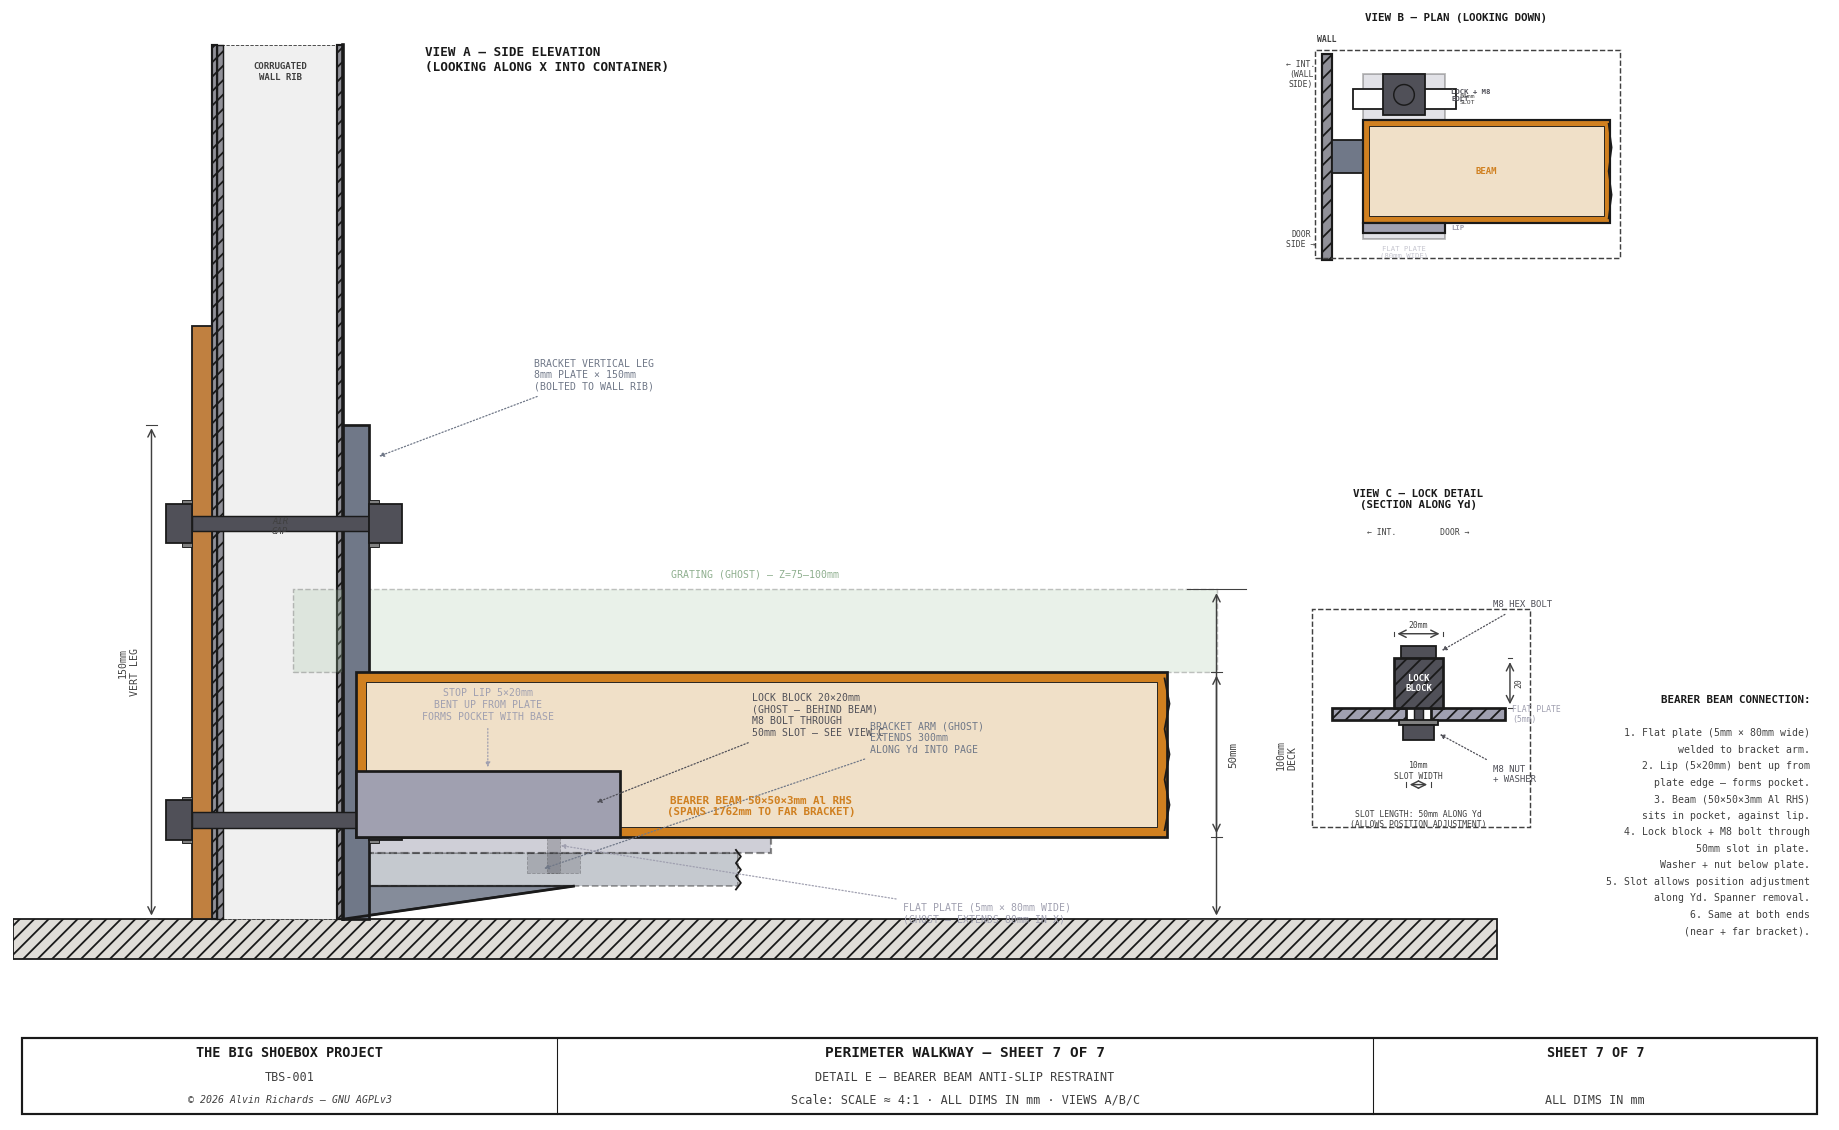
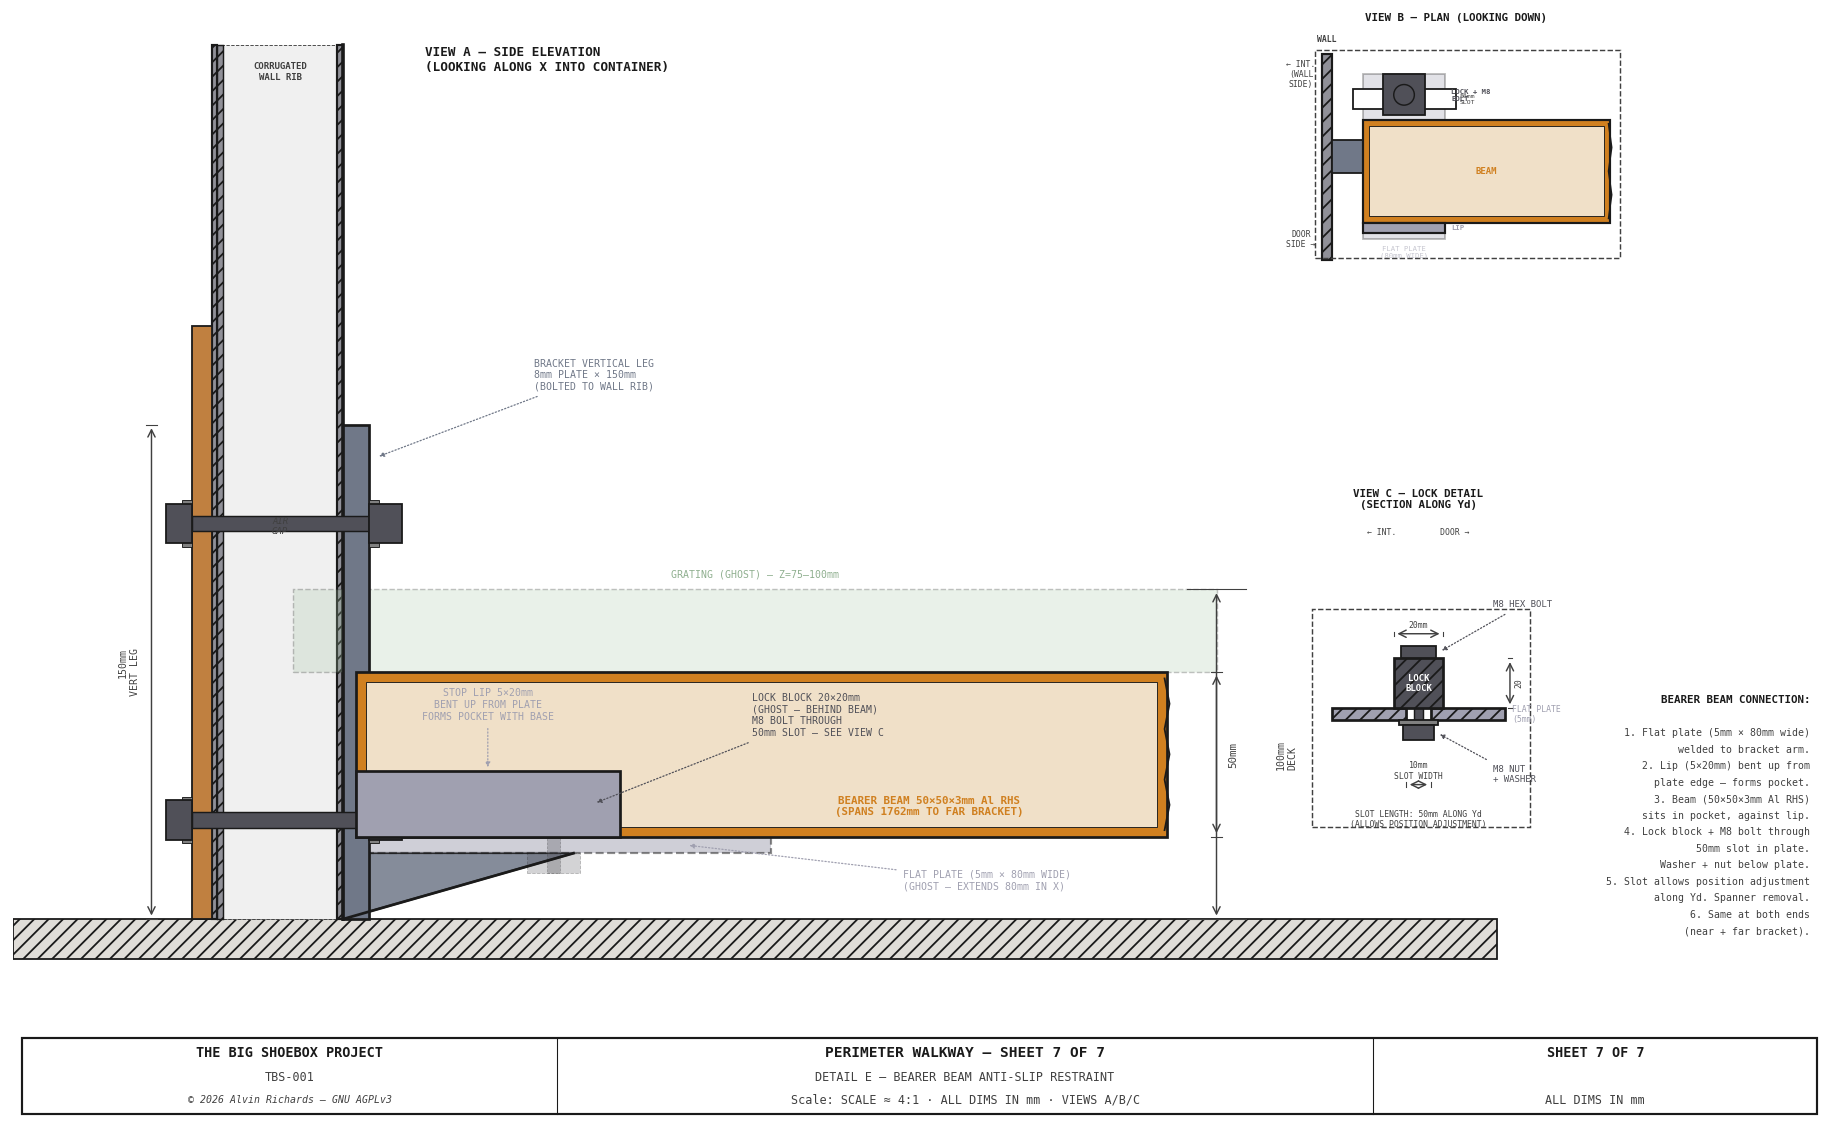
Sheet 7: remove redundant bracket arm rectangle, gusset connects to plate

Changed region(s): [[0.186, 0.6195, 0.5579, 0.8363], [0.4959, 0.7743, 0.5889, 0.8363]]

diff --git a/generate_walkway_diagram.py b/generate_walkway_diagram.py
@@ -2261,33 +2261,16 @@ def sheet7():
                                 sx(WASHER_T), sy(BOLT_D + 2),
                                 fc="#808080", ec=C_OUT, lw=0.5, zorder=9))
 
-    # ── Bracket arm (ghost — extends perpendicular to view along X) ──────────
-    arm_show = 120   # show stub extending 120mm along Yd
-    ax.add_patch(Rectangle((sx(0), sy(arm_bot)),
-                            sx(arm_show), sy(ARM_DEPTH),
-                            fc=C_BRKT, ec=C_OUT, lw=1.0, alpha=0.4,
-                            ls="--", zorder=5))
-    bx_arm = sx(arm_show)
-    z_lo_arm, z_hi_arm = sy(arm_bot - 1), sy(arm_bot + ARM_DEPTH + 1)
-    zz_arm = np.linspace(z_lo_arm, z_hi_arm, 7)
-    ax.plot([bx_arm - 3, bx_arm + 3, bx_arm - 3, bx_arm + 3,
-             bx_arm - 3, bx_arm + 3, bx_arm - 3],
-            zz_arm, color=C_OUT, lw=1.0, zorder=7)
-    leader(ax, sx(arm_show / 2), sy(arm_bot + ARM_DEPTH / 2),
-           sx(arm_show + 50), sy(arm_bot + ARM_DEPTH + 30),
-           f"BRACKET ARM (GHOST)\nEXTENDS {WALKWAY_W}mm\nALONG Yd INTO PAGE",
-           color=C_BRKT, fs=5.5,
-           ha="left", va="bottom", arrow_style="-|>", font=FONT)
-
     # ── Gusset triangle ──────────────────────────────────────────────────────
+    # Gusset connects bracket vertical leg to underside of flat plate
     gusset_verts = [
         (sx(0), sy(0)),
-        (sx(0), sy(arm_bot)),
-        (sx(GUSSET_REACH), sy(arm_bot)),
+        (sx(0), sy(plate_bot)),
+        (sx(GUSSET_REACH), sy(plate_bot)),
     ]
     ax.add_patch(Polygon(gusset_verts, closed=True,
                          fc=C_BRKT, ec=C_OUT, lw=1.2, zorder=5, alpha=0.85))
-    ax.plot([sx(0), sx(GUSSET_REACH)], [sy(0), sy(arm_bot)],
+    ax.plot([sx(0), sx(GUSSET_REACH)], [sy(0), sy(plate_bot)],
             color=C_OUT, lw=1.5, zorder=6)
 
     # ── Flat plate (ghost — extends in X perpendicular to view) ──────────────
